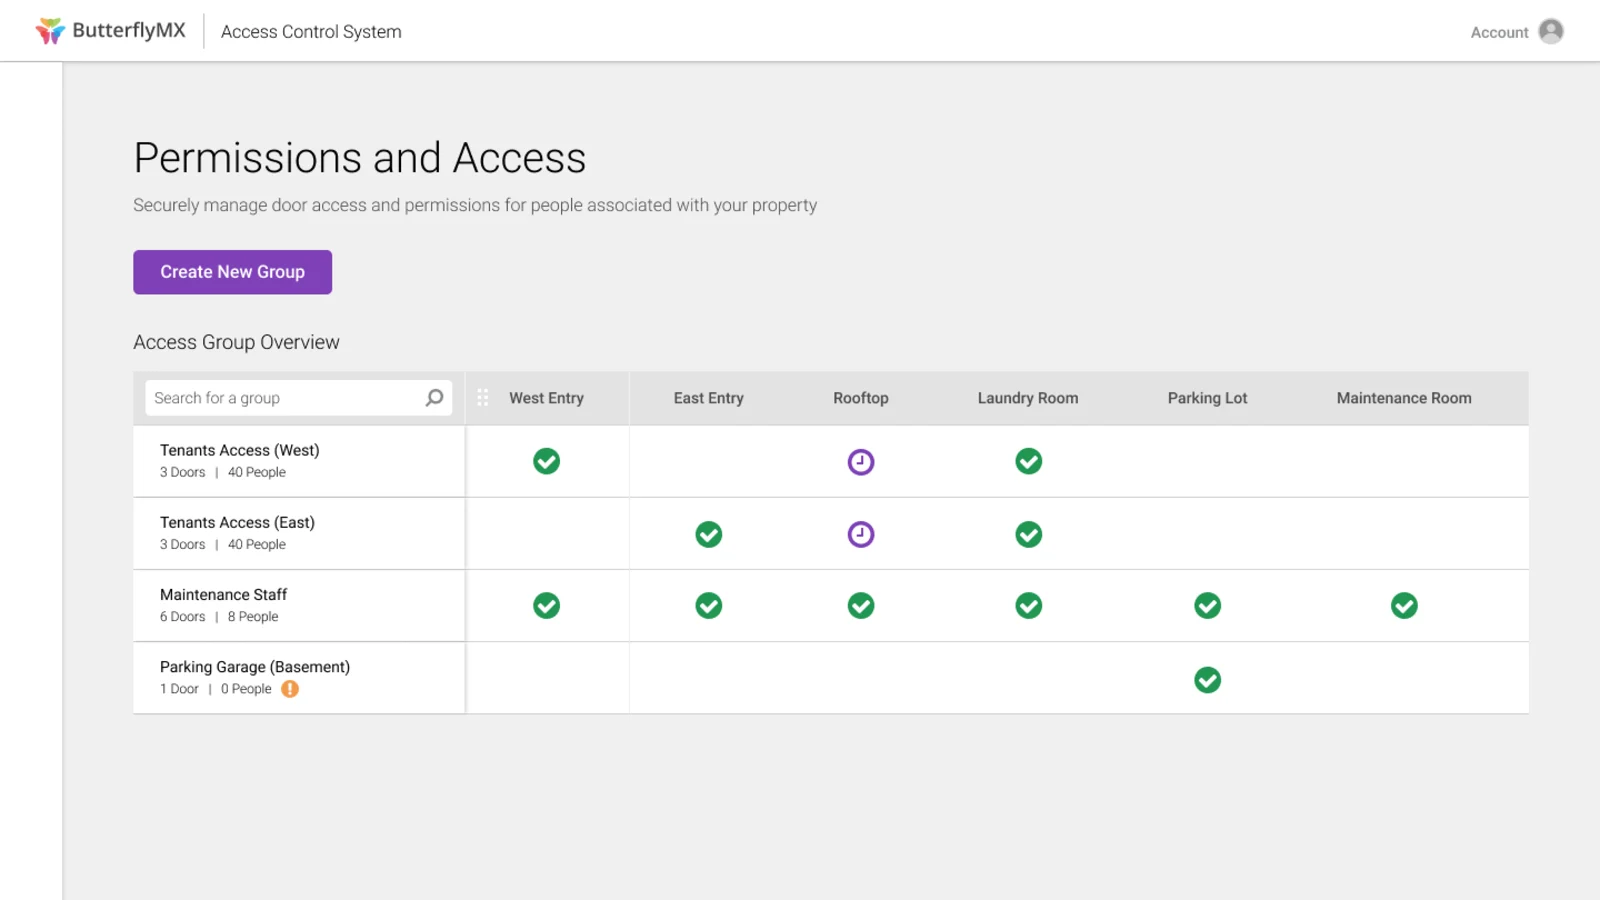
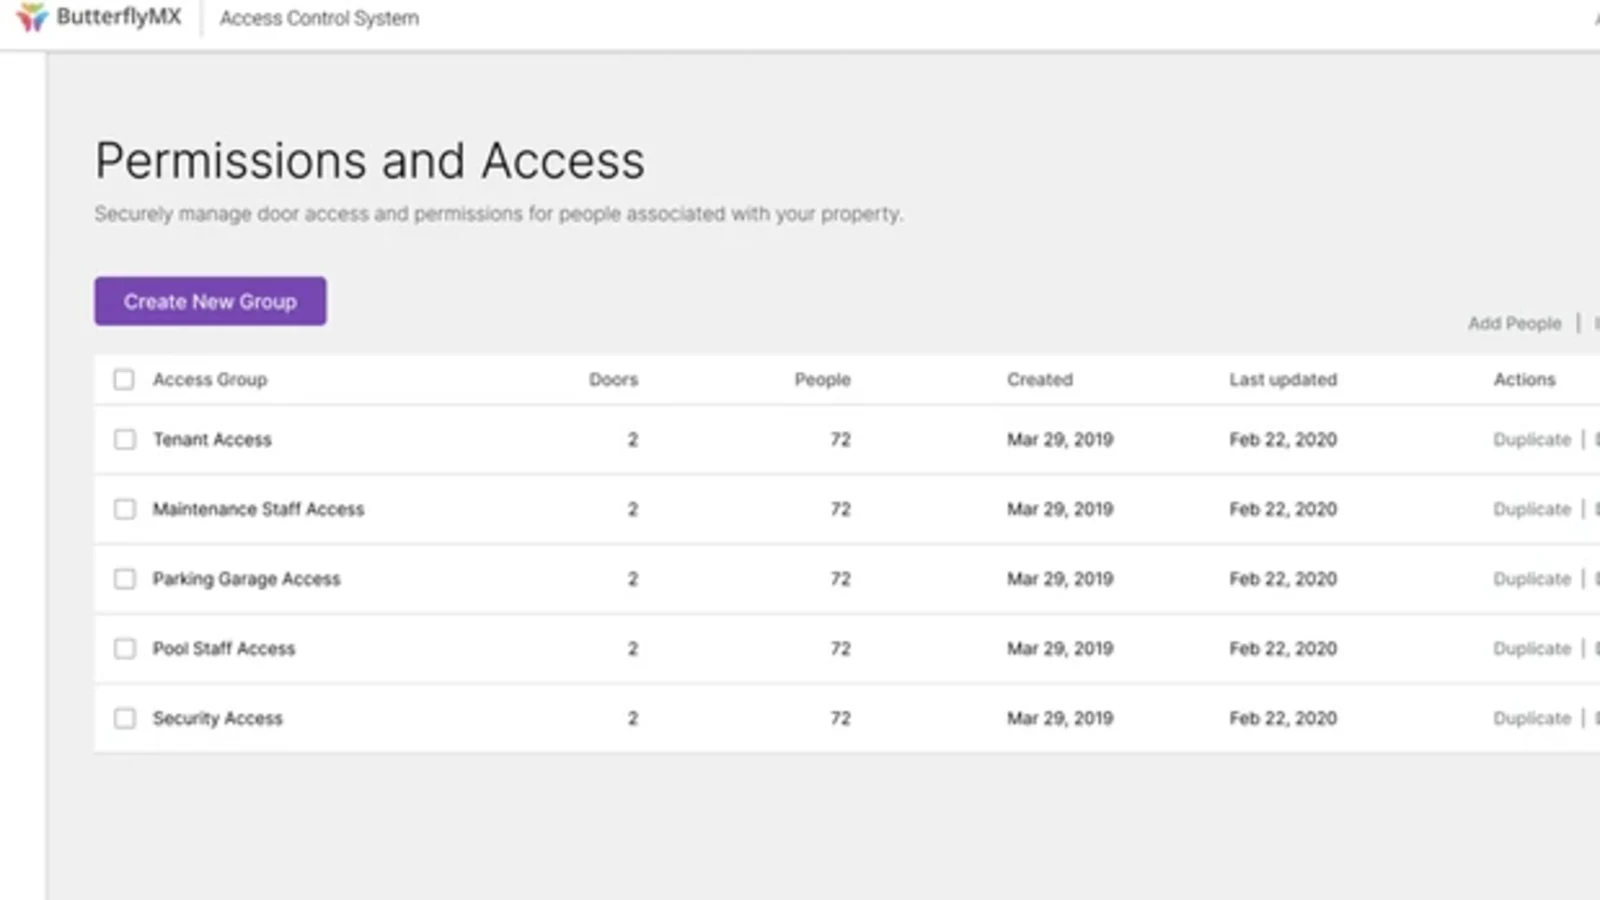
Access management: What Shipped now shows what shipped
screen-3.webp was a three-screen composite and its lower left panel was the
matrix, which is Direction A from the A/B test. The section that says "we chose
the table" was showing the losing direction directly underneath that sentence.

- assets/access-management/shipped-groups.webp and shipped-edit-group.webp:
  the groups list and the edit-group panel, cut out of the composite at precise
  insets so none of its coloured ground survives at the edges. Corner pixels
  verified white.
- work/access-management.html: What Shipped carries those two figures instead
  of the composite. The A/B section is untouched and still shows both
  directions, which is the point of that section.
- index.html tile moves from screen-1 (the matrix) to the shipped groups list.

Copy was not touched. The writing was already correct; the figures were not.

Known ceiling: every raster on this page traces back to two small exports, so
the crops are 1x at the 680px column and soft on retina. There is no better
source in the repo, the case study PDF holds no images. The real fix is fresh
frames out of ButterflyMX/01_Case Studies/Permissions and Access/source/Access
Management.fig.

diff --git a/work/access-management.html b/work/access-management.html
@@ -91,7 +91,8 @@
 
   <h2>What Shipped</h2>
   <p>The final design centered on a clear groups list and an edit panel where a manager builds a group from three things: the doors it covers, the time window for each, and the people in it. Stage, status, and access all read from one place instead of being scattered across the building's setup.</p>
-  <figure class="wide"><img class="zoomable" src="../assets/access-management/screen-3.webp" alt="Final screens: the groups list, the access matrix view, and the edit-group panel"><figcaption>The shipped experience: the groups list, the access overview, and the edit-group panel where doors, time windows, and people come together.</figcaption></figure>
+  <figure class="wide"><img class="zoomable" src="../assets/access-management/shipped-groups.webp" alt="The shipped permission groups list: each group with its door count, people count, created and last updated dates"><figcaption>The groups list as it shipped. Every group carries its door count and its people count, so a manager reads scope without opening anything.</figcaption></figure>
+  <figure class="wide"><img class="zoomable" src="../assets/access-management/shipped-edit-group.webp" alt="The Edit Permission Group panel: group name, doors with a time window and day selector, and the people assigned"><figcaption>Building a group in one panel: the doors it covers, the time window for each, and the people in it.</figcaption></figure>
 
   <h2>Constraints We Built Against</h2>
   <p>We shipped this without much of a safety net: no established design system, a front end on Bootstrap 3, a team of mostly back-end engineers, and a single front-end developer shared across projects. A good part of the job was advocating for the UX and the interactions over whatever the framework made easy.</p>

diff --git a/index.html b/index.html
@@ -117,7 +117,7 @@
         <span class="org">ButterflyMX</span>
         <span class="desc">Permission groups that let property managers give the right people the right access at the right times, live in 100% of buildings at launch.</span>
       </span>
-      <span class="rowmedia"><img src="assets/index/access-management.webp" alt="The permission groups overview: each group against each door, so a property manager can read access at a glance" width="1600" height="900" loading="eager" decoding="async"></span>
+      <span class="rowmedia"><img src="assets/index/access-management.webp" alt="The shipped permission groups list, each group with its door count and people count" width="1600" height="900" loading="eager" decoding="async"></span>
     </a>
     <a class="row" href="work/resident-app.html">
       <span class="num">09</span>
